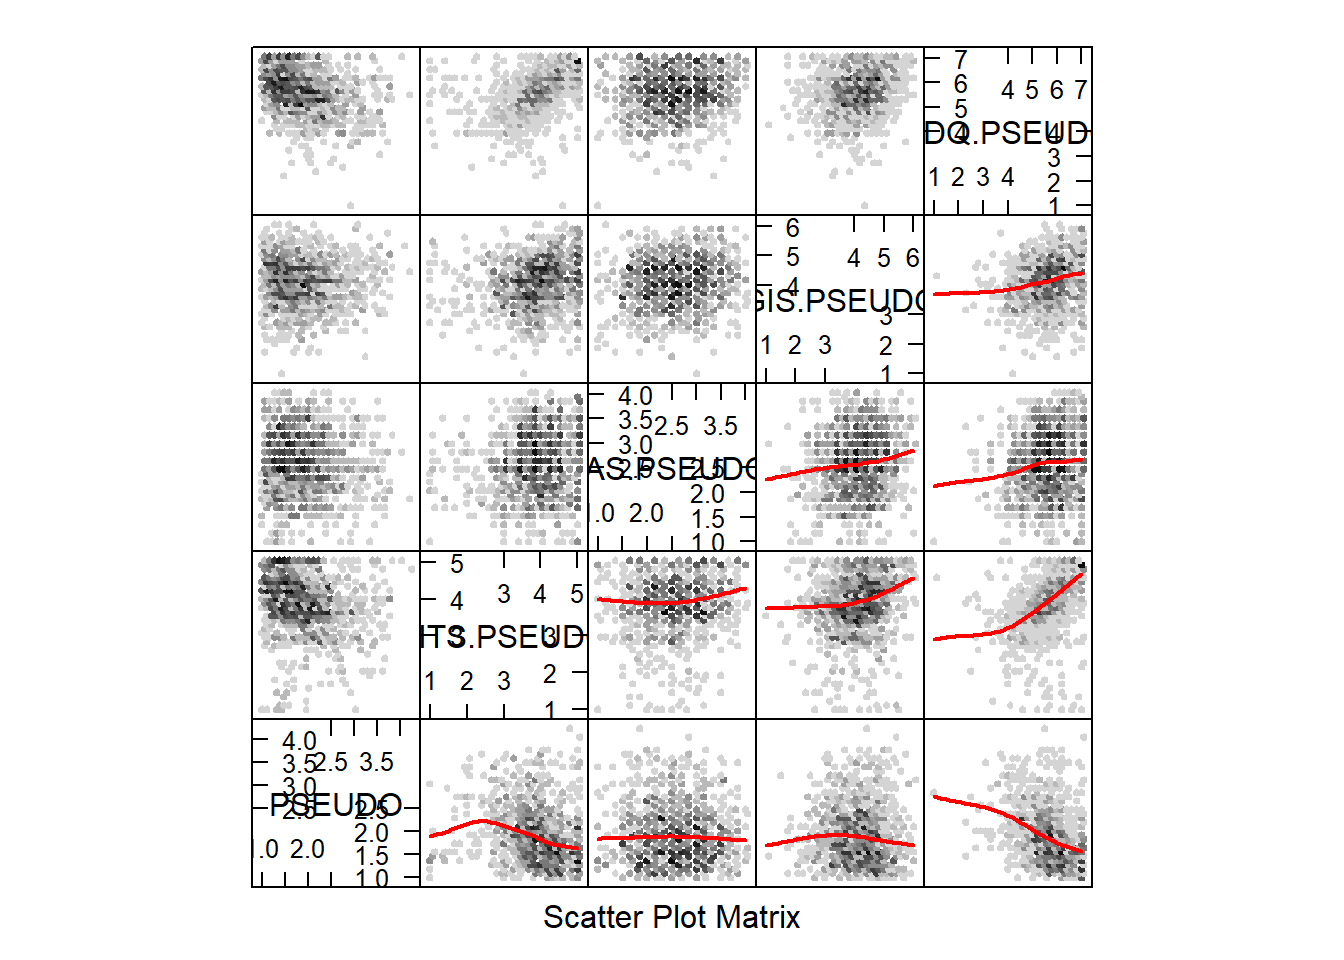
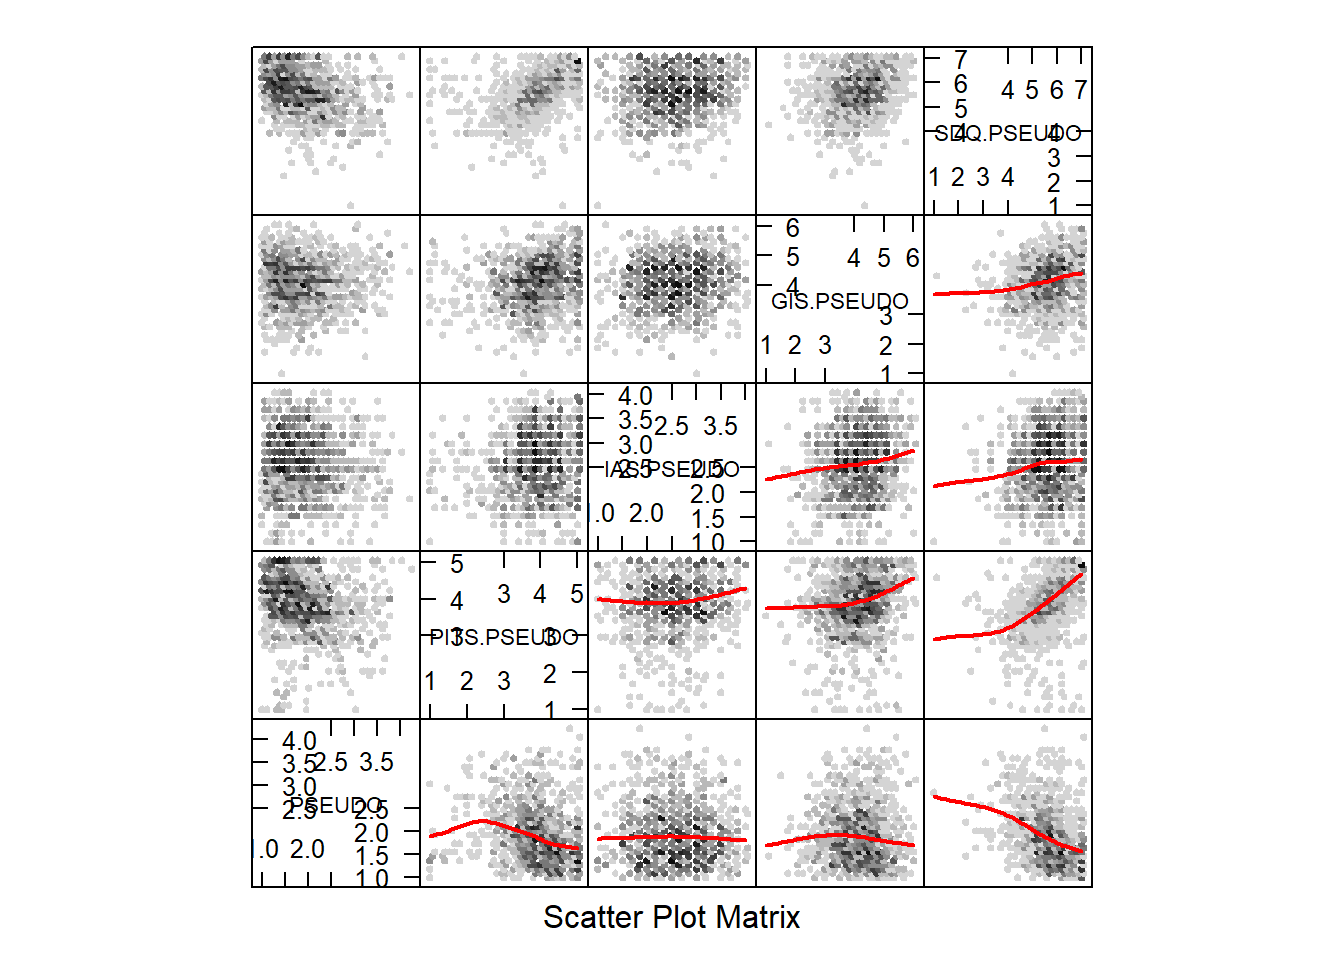
Build site.

diff --git a/docs/angelo2.html b/docs/angelo2.html
@@ -593,10 +593,10 @@ environment
 <div class="panel panel-default">
 <div class="panel-heading">
 <p class="panel-title">
-<a data-toggle="collapse" data-parent="#workflowr-checks" href="#strongRepositoryversionstrongahrefhttpsgithubcomStephanLewandowskyangelotreee073a2a8391dfd8788ab2d45ac24b63256910318targetblanke073a2aa"> <span class="glyphicon glyphicon-ok text-success" aria-hidden="true"></span> <strong>Repository version:</strong> <a href="https://github.com/StephanLewandowsky/angelo/tree/e073a2a8391dfd8788ab2d45ac24b63256910318" target="_blank">e073a2a</a> </a>
+<a data-toggle="collapse" data-parent="#workflowr-checks" href="#strongRepositoryversionstrongahrefhttpsgithubcomStephanLewandowskyangelotreef87d36e02a446137040c4a8e35711dedc09bd146targetblankf87d36ea"> <span class="glyphicon glyphicon-ok text-success" aria-hidden="true"></span> <strong>Repository version:</strong> <a href="https://github.com/StephanLewandowsky/angelo/tree/f87d36e02a446137040c4a8e35711dedc09bd146" target="_blank">f87d36e</a> </a>
 </p>
 </div>
[2 lines of base64/hex data omitted]
 <div class="panel-body">
 <p>
 Great! You are using Git for version control. Tracking code development and connecting the code version to the results is critical for reproducibility. The version displayed above was the version of the Git repository at the time these results were generated. <br><br> Note that you need to be careful to ensure that all relevant files for the analysis have been committed to Git prior to generating the results (you can use <code>wflow_publish</code> or <code>wflow_git_commit</code>). workflowr only checks the R Markdown file, but you know if there are other scripts or data files that it depends on. Below is the status of the Git repository when the results were generated:
@@ -655,6 +655,40 @@ Message
 </tr>
 </thead>
 <tbody>
+<tr>
+<td>
+Rmd
+</td>
+<td>
+<a href="https://github.com/StephanLewandowsky/angelo/blob/f87d36e02a446137040c4a8e35711dedc09bd146/analysis/angelo2.Rmd" target="_blank">f87d36e</a>
+</td>
+<td>
+StephanLewandowsky
+</td>
+<td>
+2019-11-18
+</td>
+<td>
+Exploring nonlinearities in Angelo 2
+</td>
+</tr>
+<tr>
+<td>
+html
+</td>
+<td>
+<a href="https://rawcdn.githack.com/StephanLewandowsky/angelo/ae9f567754de1aaeec0eea85963db4643b311b5b/docs/angelo2.html" target="_blank">ae9f567</a>
+</td>
+<td>
+StephanLewandowsky
+</td>
+<td>
+2019-11-18
+</td>
+<td>
+Build site.
+</td>
+</tr>
 <tr>
 <td>
 Rmd
@@ -2549,8 +2583,45 @@ SDQ.PSEUDO  -0.32288404   0.4517671  0.10584839  0.18496446  1.0000000</code></p
       lower.panel = function(x, y, ...){
             panel.hexbinplot(x, y, ...)
             panel.loess(x, y, ..., col = &#39;red&#39;,lwd=2)
-      })</code></pre>
+      },varname.cex=0.7)</code></pre>
 <p><img src="figure/angelo2.Rmd/nonlinplots-1.png" width="672" style="display: block; margin: auto;" /></p>
+<p>
+<button type="button" class="btn btn-default btn-xs btn-workflowr btn-workflowr-fig" data-toggle="collapse" data-target="#fig-nonlinplots-1">
+Past versions of nonlinplots-1.png
+</button>
+</p>
+<div id="fig-nonlinplots-1" class="collapse">
+<div class="table-responsive">
+<table class="table table-condensed table-hover">
+<thead>
+<tr>
+<th>
+Version
+</th>
+<th>
+Author
+</th>
+<th>
+Date
+</th>
+</tr>
+</thead>
+<tbody>
+<tr>
+<td>
+<a href="https://github.com/StephanLewandowsky/angelo/blob/ae9f567754de1aaeec0eea85963db4643b311b5b/docs/figure/angelo2.Rmd/nonlinplots-1.png" target="_blank">ae9f567</a>
+</td>
+<td>
+StephanLewandowsky
+</td>
+<td>
+2019-11-18
+</td>
+</tr>
+</tbody>
+</table>
+</div>
+</div>
 <br>
 <p>
 <button type="button" class="btn btn-default btn-workflowr btn-workflowr-sessioninfo" data-toggle="collapse" data-target="#workflowr-sessioninfo" style="display: block;">

diff --git a/docs/recovery.html b/docs/recovery.html
@@ -593,10 +593,10 @@ environment
 <div class="panel panel-default">
 <div class="panel-heading">
 <p class="panel-title">
-<a data-toggle="collapse" data-parent="#workflowr-checks" href="#strongRepositoryversionstrongahrefhttpsgithubcomStephanLewandowskyangelotreee073a2a8391dfd8788ab2d45ac24b63256910318targetblanke073a2aa"> <span class="glyphicon glyphicon-ok text-success" aria-hidden="true"></span> <strong>Repository version:</strong> <a href="https://github.com/StephanLewandowsky/angelo/tree/e073a2a8391dfd8788ab2d45ac24b63256910318" target="_blank">e073a2a</a> </a>
+<a data-toggle="collapse" data-parent="#workflowr-checks" href="#strongRepositoryversionstrongahrefhttpsgithubcomStephanLewandowskyangelotreef87d36e02a446137040c4a8e35711dedc09bd146targetblankf87d36ea"> <span class="glyphicon glyphicon-ok text-success" aria-hidden="true"></span> <strong>Repository version:</strong> <a href="https://github.com/StephanLewandowsky/angelo/tree/f87d36e02a446137040c4a8e35711dedc09bd146" target="_blank">f87d36e</a> </a>
 </p>
 </div>
[2 lines of base64/hex data omitted]
 <div class="panel-body">
 <p>
 Great! You are using Git for version control. Tracking code development and connecting the code version to the results is critical for reproducibility. The version displayed above was the version of the Git repository at the time these results were generated. <br><br> Note that you need to be careful to ensure that all relevant files for the analysis have been committed to Git prior to generating the results (you can use <code>wflow_publish</code> or <code>wflow_git_commit</code>). workflowr only checks the R Markdown file, but you know if there are other scripts or data files that it depends on. Below is the status of the Git repository when the results were generated:
@@ -655,6 +655,23 @@ Message
 </tr>
 </thead>
 <tbody>
+<tr>
+<td>
+html
+</td>
+<td>
+<a href="https://rawcdn.githack.com/StephanLewandowsky/angelo/ae9f567754de1aaeec0eea85963db4643b311b5b/docs/recovery.html" target="_blank">ae9f567</a>
+</td>
+<td>
+StephanLewandowsky
+</td>
+<td>
+2019-11-18
+</td>
+<td>
+Build site.
+</td>
+</tr>
 <tr>
 <td>
 html

diff --git a/docs/angelo1.html b/docs/angelo1.html
@@ -593,10 +593,10 @@ environment
 <div class="panel panel-default">
 <div class="panel-heading">
 <p class="panel-title">
-<a data-toggle="collapse" data-parent="#workflowr-checks" href="#strongRepositoryversionstrongahrefhttpsgithubcomStephanLewandowskyangelotreee073a2a8391dfd8788ab2d45ac24b63256910318targetblanke073a2aa"> <span class="glyphicon glyphicon-ok text-success" aria-hidden="true"></span> <strong>Repository version:</strong> <a href="https://github.com/StephanLewandowsky/angelo/tree/e073a2a8391dfd8788ab2d45ac24b63256910318" target="_blank">e073a2a</a> </a>
+<a data-toggle="collapse" data-parent="#workflowr-checks" href="#strongRepositoryversionstrongahrefhttpsgithubcomStephanLewandowskyangelotreef87d36e02a446137040c4a8e35711dedc09bd146targetblankf87d36ea"> <span class="glyphicon glyphicon-ok text-success" aria-hidden="true"></span> <strong>Repository version:</strong> <a href="https://github.com/StephanLewandowsky/angelo/tree/f87d36e02a446137040c4a8e35711dedc09bd146" target="_blank">f87d36e</a> </a>
 </p>
 </div>
[2 lines of base64/hex data omitted]
 <div class="panel-body">
 <p>
 Great! You are using Git for version control. Tracking code development and connecting the code version to the results is critical for reproducibility. The version displayed above was the version of the Git repository at the time these results were generated. <br><br> Note that you need to be careful to ensure that all relevant files for the analysis have been committed to Git prior to generating the results (you can use <code>wflow_publish</code> or <code>wflow_git_commit</code>). workflowr only checks the R Markdown file, but you know if there are other scripts or data files that it depends on. Below is the status of the Git repository when the results were generated:
@@ -655,6 +655,23 @@ Message
 </tr>
 </thead>
 <tbody>
+<tr>
+<td>
+html
+</td>
+<td>
+<a href="https://rawcdn.githack.com/StephanLewandowsky/angelo/ae9f567754de1aaeec0eea85963db4643b311b5b/docs/angelo1.html" target="_blank">ae9f567</a>
+</td>
+<td>
+StephanLewandowsky
+</td>
+<td>
+2019-11-18
+</td>
+<td>
+Build site.
+</td>
+</tr>
 <tr>
 <td>
 html

diff --git a/docs/index.html b/docs/index.html
@@ -474,10 +474,10 @@ environment
 <div class="panel panel-default">
 <div class="panel-heading">
 <p class="panel-title">
-<a data-toggle="collapse" data-parent="#workflowr-checks" href="#strongRepositoryversionstrongahrefhttpsgithubcomStephanLewandowskyangelotreee073a2a8391dfd8788ab2d45ac24b63256910318targetblanke073a2aa"> <span class="glyphicon glyphicon-ok text-success" aria-hidden="true"></span> <strong>Repository version:</strong> <a href="https://github.com/StephanLewandowsky/angelo/tree/e073a2a8391dfd8788ab2d45ac24b63256910318" target="_blank">e073a2a</a> </a>
+<a data-toggle="collapse" data-parent="#workflowr-checks" href="#strongRepositoryversionstrongahrefhttpsgithubcomStephanLewandowskyangelotreef87d36e02a446137040c4a8e35711dedc09bd146targetblankf87d36ea"> <span class="glyphicon glyphicon-ok text-success" aria-hidden="true"></span> <strong>Repository version:</strong> <a href="https://github.com/StephanLewandowsky/angelo/tree/f87d36e02a446137040c4a8e35711dedc09bd146" target="_blank">f87d36e</a> </a>
 </p>
 </div>
[2 lines of base64/hex data omitted]
 <div class="panel-body">
 <p>
 Great! You are using Git for version control. Tracking code development and connecting the code version to the results is critical for reproducibility. The version displayed above was the version of the Git repository at the time these results were generated. <br><br> Note that you need to be careful to ensure that all relevant files for the analysis have been committed to Git prior to generating the results (you can use <code>wflow_publish</code> or <code>wflow_git_commit</code>). workflowr only checks the R Markdown file, but you know if there are other scripts or data files that it depends on. Below is the status of the Git repository when the results were generated:
@@ -536,6 +536,23 @@ Message
 </tr>
 </thead>
 <tbody>
+<tr>
+<td>
+html
+</td>
+<td>
+<a href="https://rawcdn.githack.com/StephanLewandowsky/angelo/ae9f567754de1aaeec0eea85963db4643b311b5b/docs/index.html" target="_blank">ae9f567</a>
+</td>
+<td>
+StephanLewandowsky
+</td>
+<td>
+2019-11-18
+</td>
+<td>
+Build site.
+</td>
+</tr>
 <tr>
 <td>
 html
